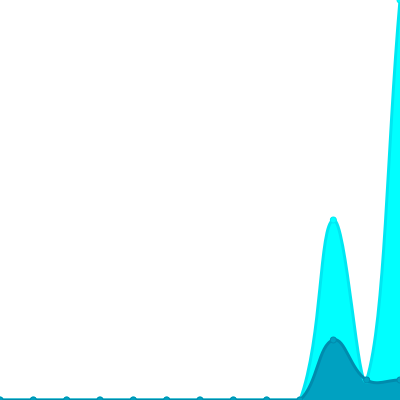
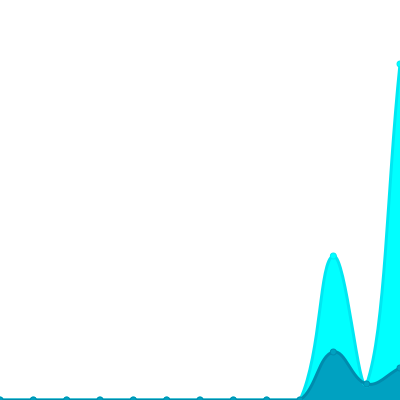
Update views

Changed region(s): [[0.75, 0.54, 1.0, 0.99], [0.96, 0.0, 1.0, 0.6], [0.93, 0.6, 0.96, 0.87]]

diff --git a/readme/466861601/year.md b/readme/466861601/year.md
@@ -23,10 +23,10 @@
 			<code>2022/7/1</code>
 		</td>
 		<td>
-			<code>1</code>
+			<code>2</code>
 		</td>
 		<td>
-			<code>20</code>
+			<code>21</code>
 		</td>
 	</tr>
 	<tr>
@@ -164,7 +164,7 @@
 </table>
 
 </details>
-<small><i>Last updated on 2022/7/20 12:12 PM UTC</i></small>
+<small><i>Last updated on 2022/7/20 6:08 PM UTC</i></small>
 
 ## ✂Copy and 📋 Paste
 ### SVG Badge

diff --git a/README.md b/README.md
@@ -213,7 +213,7 @@ The project created and maintained by [gayanvoice](https://github.com/gayanvoice
 	</tr>
 </table>
 
-<small><i>Last updated on 2022/7/20 12:13 PM UTC</i></small>
+<small><i>Last updated on 2022/7/20 6:09 PM UTC</i></small>
 
 ## ✂Copy and 📋 Paste
 ### Total Views Badge

diff --git a/readme/189526881/year.md b/readme/189526881/year.md
@@ -164,7 +164,7 @@
 </table>
 
 </details>
-<small><i>Last updated on 2022/7/20 12:11 PM UTC</i></small>
+<small><i>Last updated on 2022/7/20 6:07 PM UTC</i></small>
 
 ## ✂Copy and 📋 Paste
 ### SVG Badge

diff --git a/readme/194013724/year.md b/readme/194013724/year.md
@@ -164,7 +164,7 @@
 </table>
 
 </details>
-<small><i>Last updated on 2022/7/20 12:11 PM UTC</i></small>
+<small><i>Last updated on 2022/7/20 6:07 PM UTC</i></small>
 
 ## ✂Copy and 📋 Paste
 ### SVG Badge

diff --git a/readme/198723757/year.md b/readme/198723757/year.md
@@ -164,7 +164,7 @@
 </table>
 
 </details>
-<small><i>Last updated on 2022/7/20 12:11 PM UTC</i></small>
+<small><i>Last updated on 2022/7/20 6:07 PM UTC</i></small>
 
 ## ✂Copy and 📋 Paste
 ### SVG Badge

diff --git a/readme/219424969/year.md b/readme/219424969/year.md
@@ -164,7 +164,7 @@
 </table>
 
 </details>
-<small><i>Last updated on 2022/7/20 12:11 PM UTC</i></small>
+<small><i>Last updated on 2022/7/20 6:07 PM UTC</i></small>
 
 ## ✂Copy and 📋 Paste
 ### SVG Badge

diff --git a/readme/436220390/year.md b/readme/436220390/year.md
@@ -164,7 +164,7 @@
 </table>
 
 </details>
-<small><i>Last updated on 2022/7/20 12:11 PM UTC</i></small>
+<small><i>Last updated on 2022/7/20 6:07 PM UTC</i></small>
 
 ## ✂Copy and 📋 Paste
 ### SVG Badge

diff --git a/readme/440320865/year.md b/readme/440320865/year.md
@@ -164,7 +164,7 @@
 </table>
 
 </details>
-<small><i>Last updated on 2022/7/20 12:12 PM UTC</i></small>
+<small><i>Last updated on 2022/7/20 6:08 PM UTC</i></small>
 
 ## ✂Copy and 📋 Paste
 ### SVG Badge

diff --git a/readme/464302186/year.md b/readme/464302186/year.md
@@ -164,7 +164,7 @@
 </table>
 
 </details>
-<small><i>Last updated on 2022/7/20 12:12 PM UTC</i></small>
+<small><i>Last updated on 2022/7/20 6:08 PM UTC</i></small>
 
 ## ✂Copy and 📋 Paste
 ### SVG Badge

diff --git a/readme/471124606/year.md b/readme/471124606/year.md
@@ -164,7 +164,7 @@
 </table>
 
 </details>
-<small><i>Last updated on 2022/7/20 12:12 PM UTC</i></small>
+<small><i>Last updated on 2022/7/20 6:08 PM UTC</i></small>
 
 ## ✂Copy and 📋 Paste
 ### SVG Badge

diff --git a/readme/490430903/year.md b/readme/490430903/year.md
@@ -164,7 +164,7 @@
 </table>
 
 </details>
-<small><i>Last updated on 2022/7/20 12:12 PM UTC</i></small>
+<small><i>Last updated on 2022/7/20 6:08 PM UTC</i></small>
 
 ## ✂Copy and 📋 Paste
 ### SVG Badge

diff --git a/readme/495925535/year.md b/readme/495925535/year.md
@@ -164,7 +164,7 @@
 </table>
 
 </details>
-<small><i>Last updated on 2022/7/20 12:12 PM UTC</i></small>
+<small><i>Last updated on 2022/7/20 6:08 PM UTC</i></small>
 
 ## ✂Copy and 📋 Paste
 ### SVG Badge
